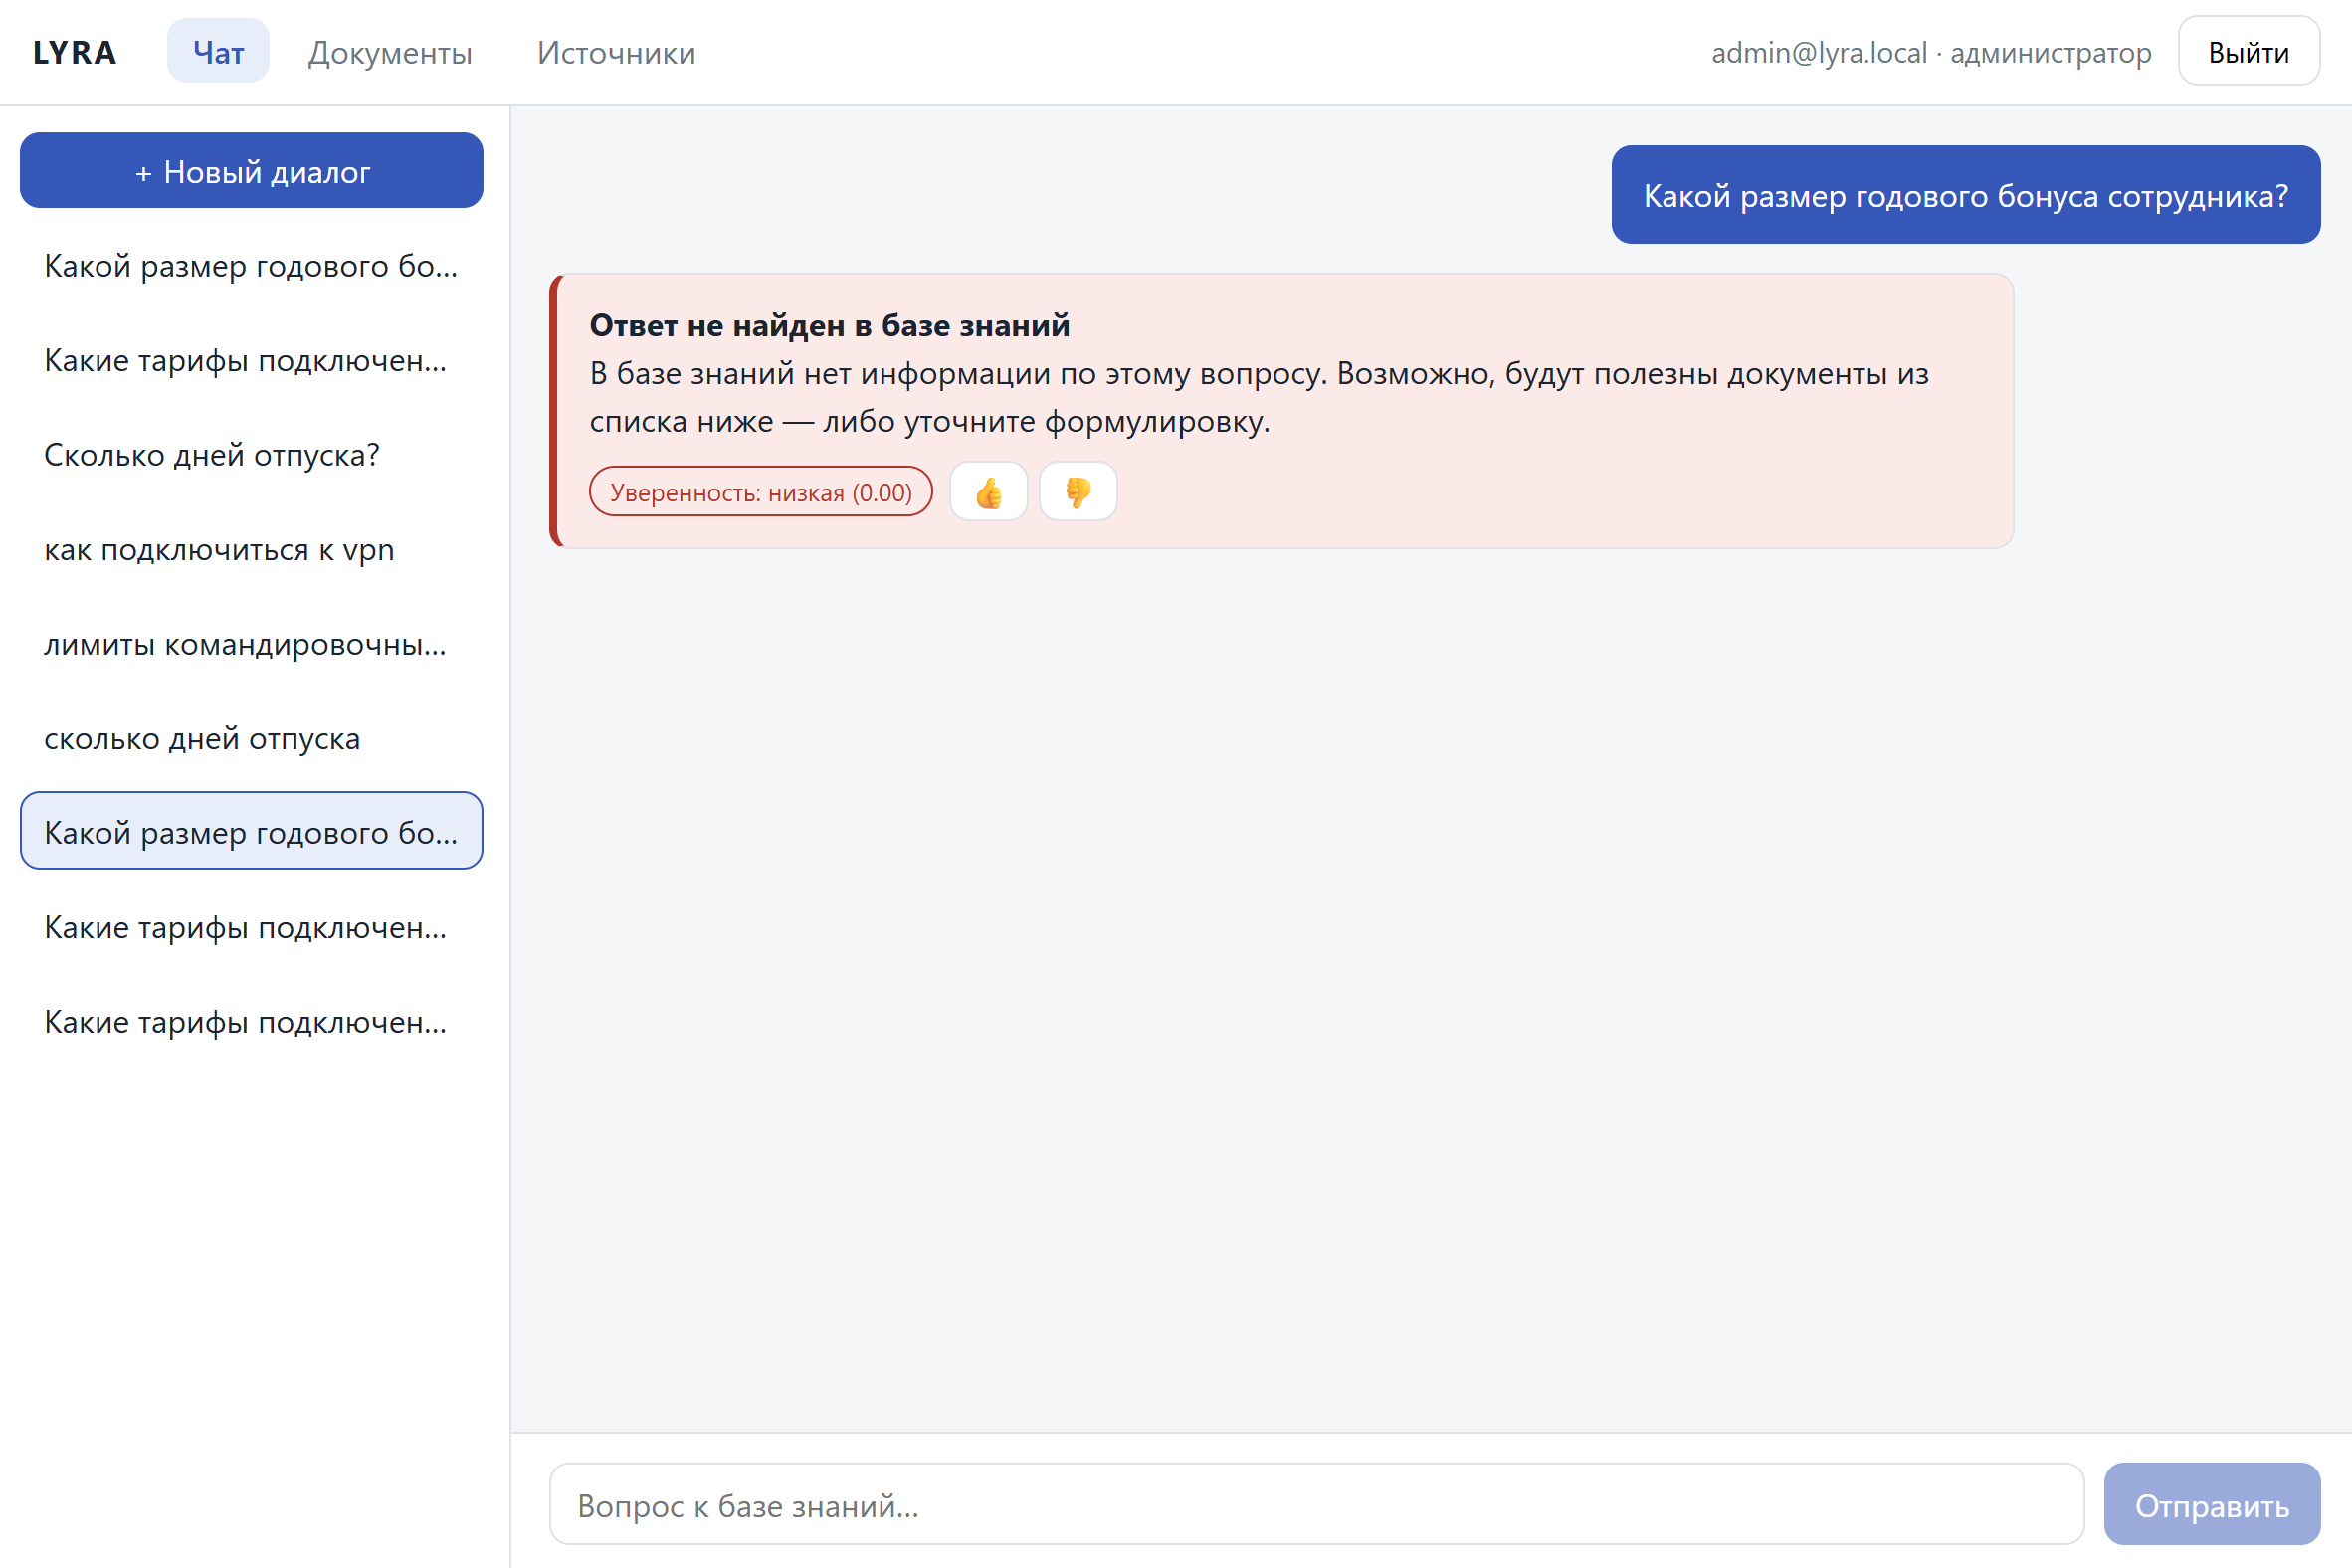
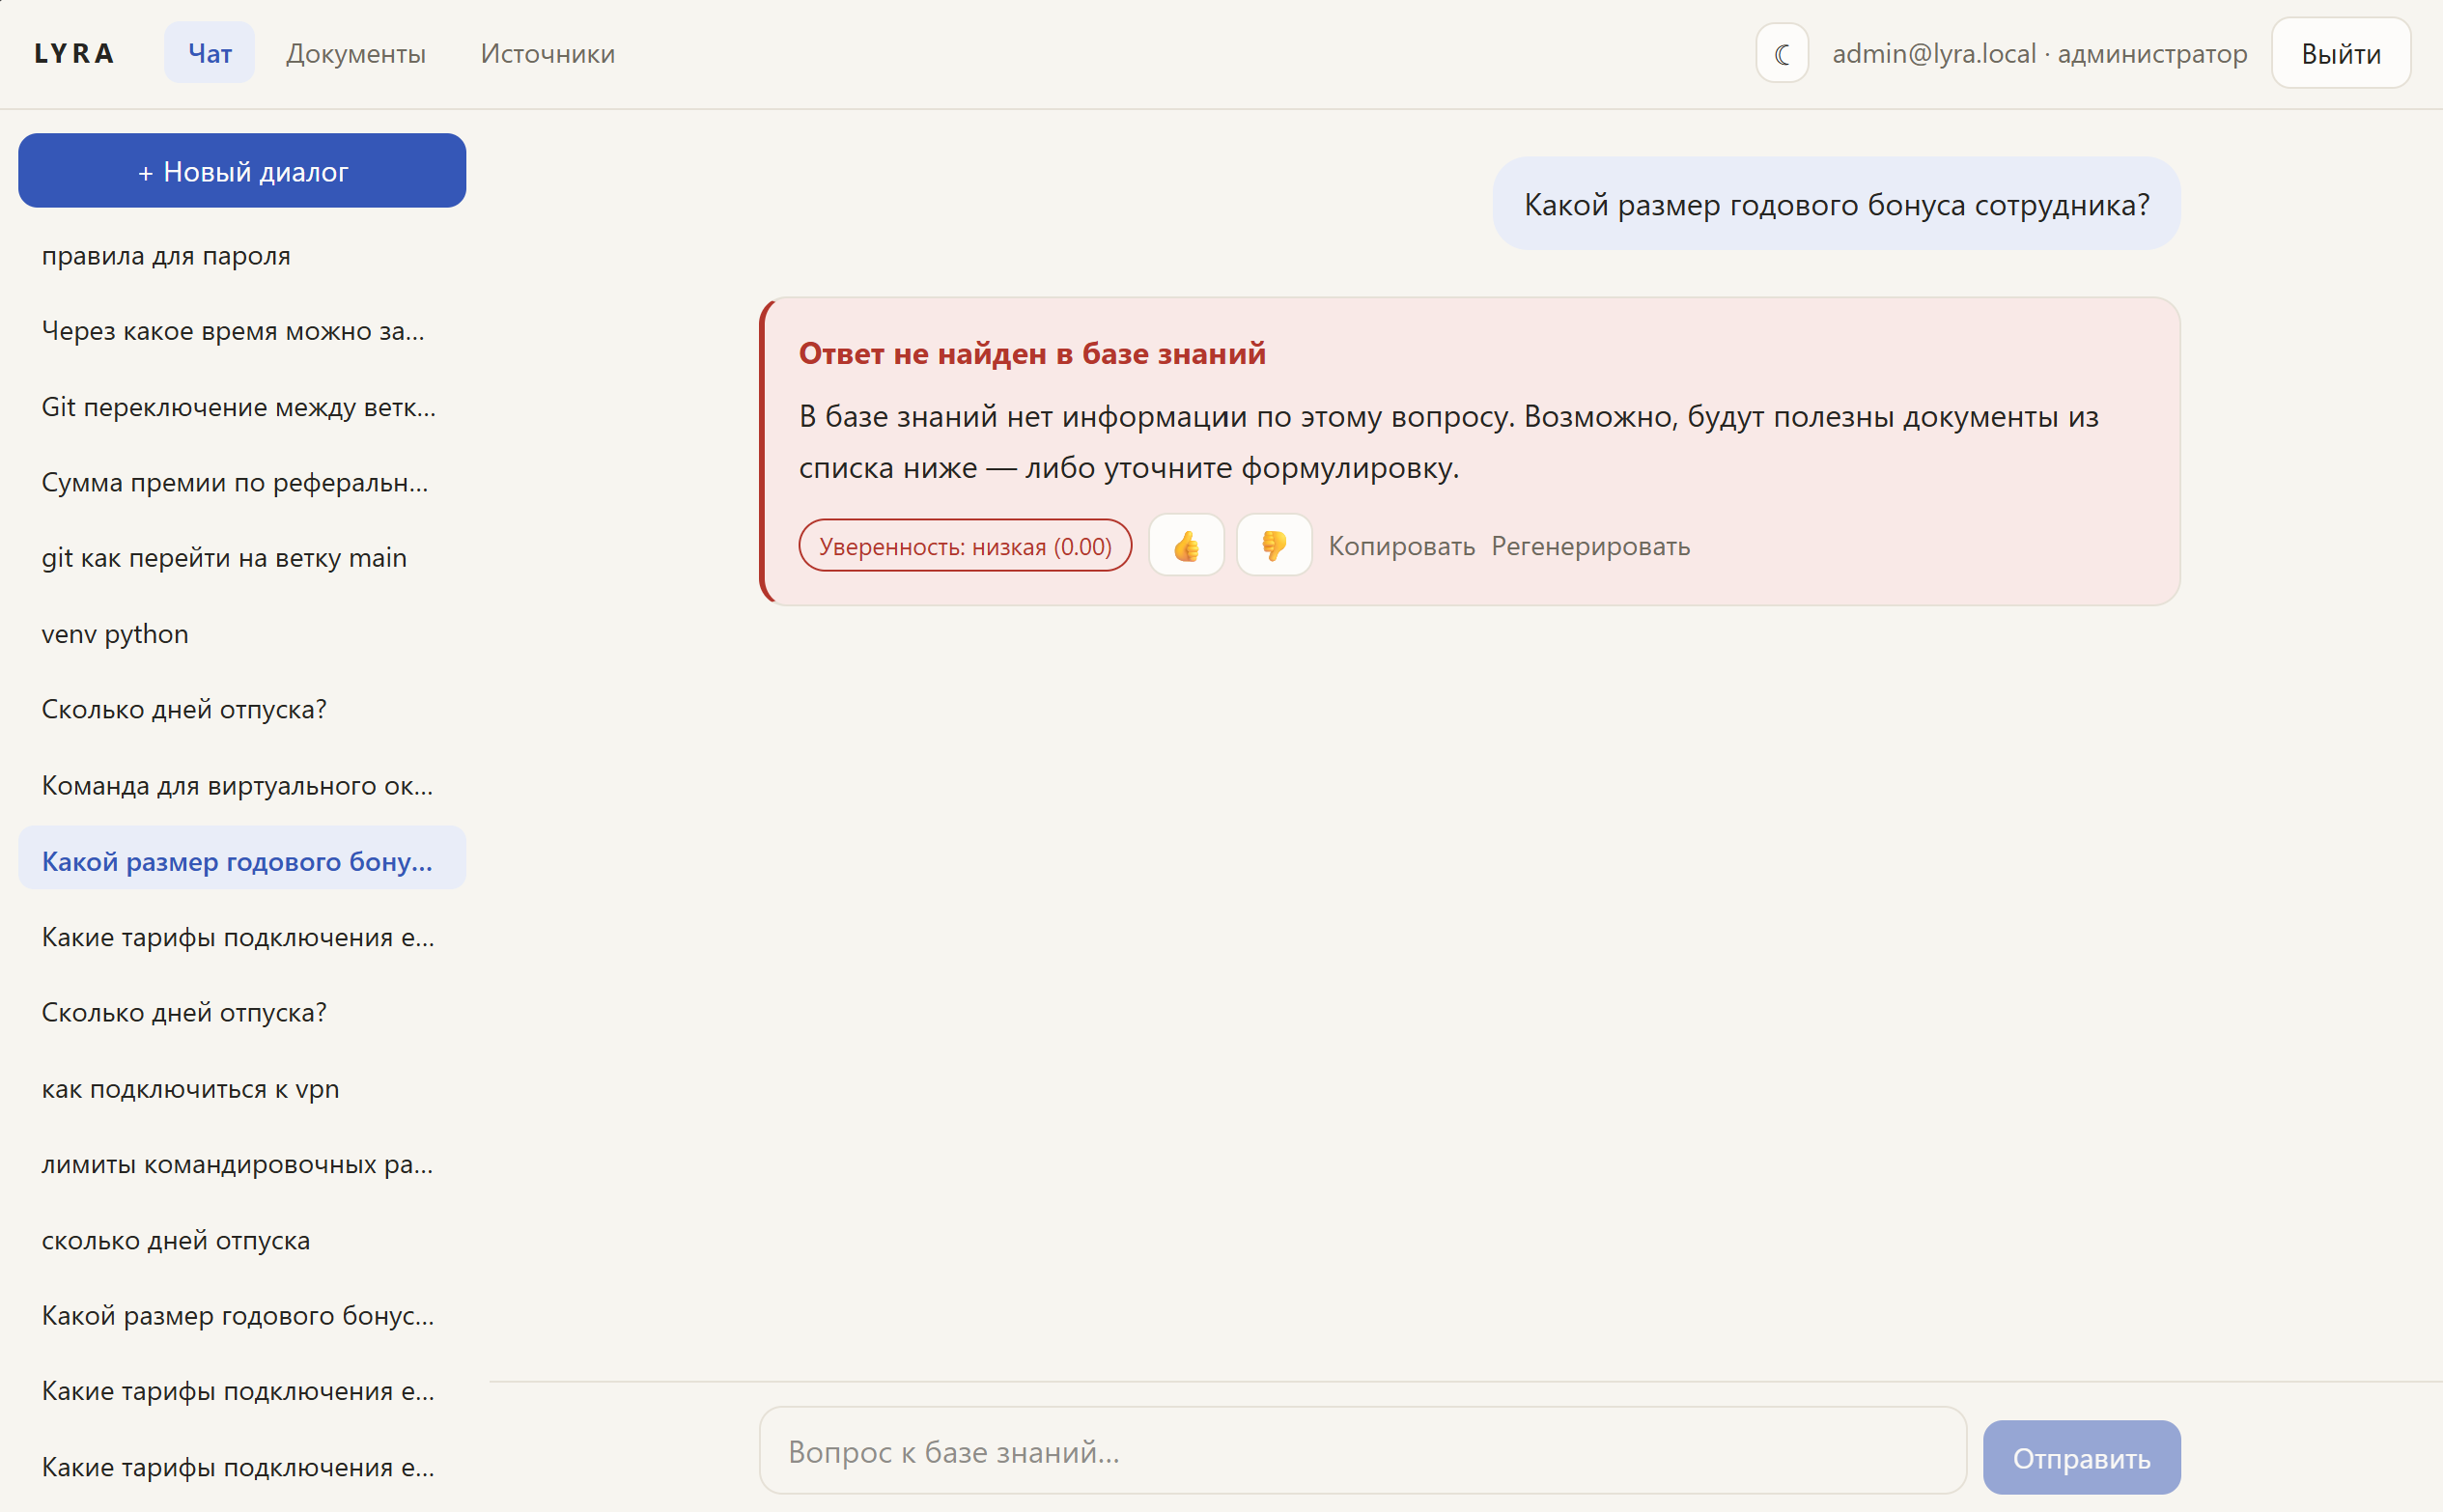
docs(ui): закрытие P0 — статус и скриншоты

diff --git a/PLAN.md b/PLAN.md
@@ -68,9 +68,10 @@
 
 Каждая P-фаза перед стартом получает детальную проработку по образцу MVP-фаз; для P3 и P4 сначала фиксируются новые ADR (план миграции vector store, топология K8s, граф знаний, агентная топология).
 
-### P0 — UI-редизайн: современный чат-интерфейс
+### P0 — UI-редизайн: современный чат-интерфейс ✅
 **Объём:** ре-скин фронтенда под уровень современных LLM-чатов (гибрид: структура ChatGPT — sidebar + узкая колонка, читаемость Claude — тёплая палитра, типографика) без изменения продуктовой логики (hooks/reducer нетронуты). Дизайн-токены + тёмная тема (`prefers-color-scheme` + переключатель); injection-safe markdown-рендеринг ответов (без `dangerouslySetInnerHTML`, совместим с маркерами [n]); стоп-генерация, копирование ответа, регенерация, авто-скролл. CSS-стек — Tailwind 4 по [ADR-011](docs/adr/ADR-011-frontend-css-stack.md).
 **DoD:** сценарий [docs/demo-script.md](docs/demo-script.md) проходит в обеих темах; «честные» элементы (цитаты [n] с поповерами, confidence, degraded, refusal + nearest_documents) видимы во всех состояниях; Vitest зелёный без изменения проверяемого поведения; скриншоты `docs/img/` обновлены. **Оценка:** 1–2 недели. **Зависимости:** фаза 7.
+**Статус:** выполнено — 5 под-фаз в main (ADR-011, токены+shell+логин, чат, markdown, действия чата); Vitest 28 зелёных.
 
 ### P1 — Доступ уровня предприятия
 **Объём:** OIDC/SSO; enforcement doc-level ACL (наследование прав Confluence, фильтр до ранжирования — [security-and-access.md §3](docs/security-and-access.md)); PII-политики (NER) при ingest; append-only аудит.